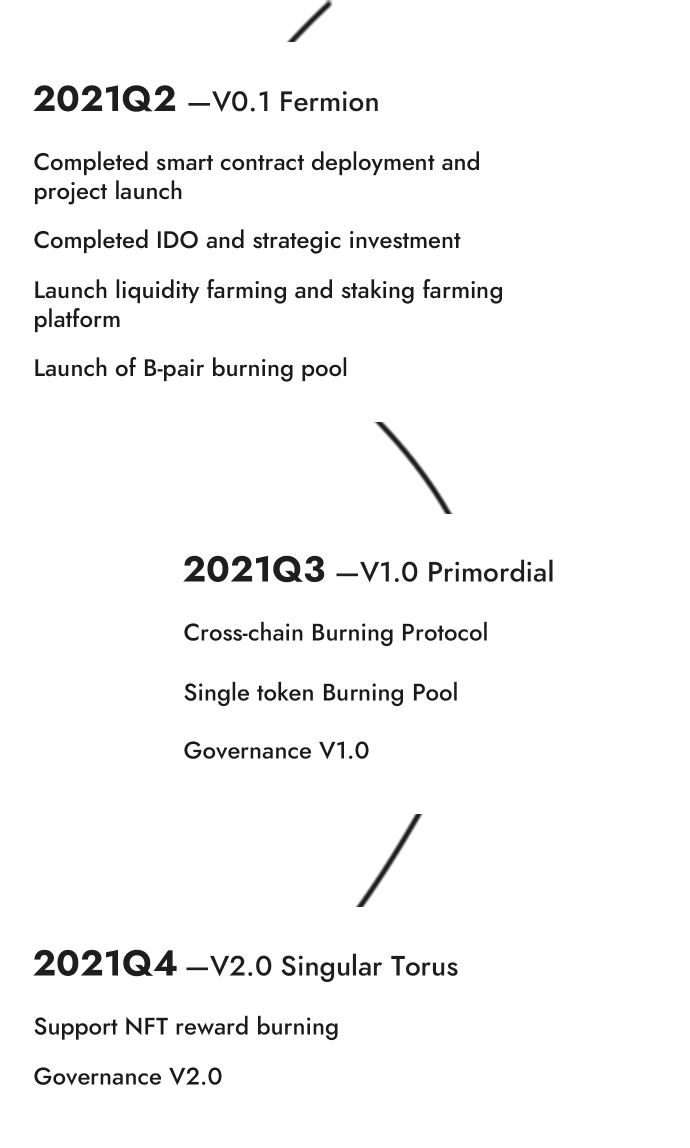
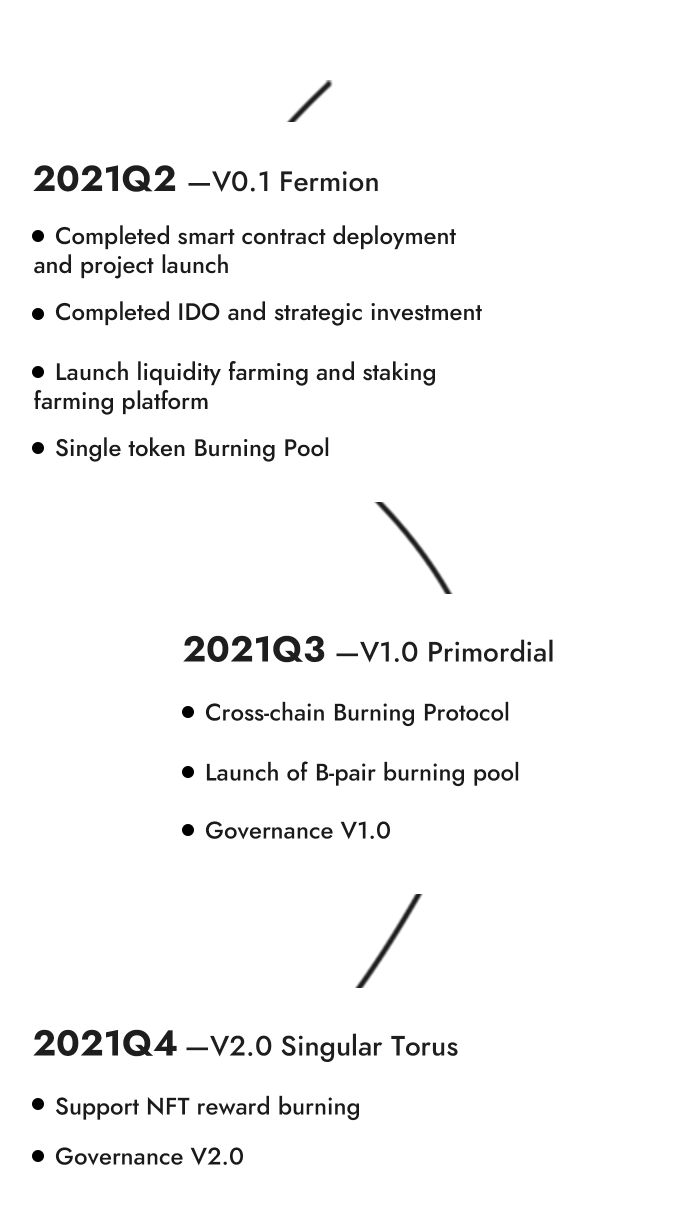
roadmap png

diff --git a/src/views/pages/home/index.jsx b/src/views/pages/home/index.jsx
@@ -87,15 +87,27 @@ const Home = (props) => {
                     <FormattedMessage id='home_text_4_2' />
                   </h4>
                   <p className='roadmap_card_text'>
+                    {locale !== 'zh' && (
+                      <span className='roadmap_card_symbol'></span>
+                    )}
                     <FormattedMessage id='home_text_5' />
                   </p>
                   <p className='roadmap_card_text'>
+                    {locale !== 'zh' && (
+                      <span className='roadmap_card_symbol'></span>
+                    )}
                     <FormattedMessage id='home_text_6' />
                   </p>
                   <p className='roadmap_card_text'>
+                    {locale !== 'zh' && (
+                      <span className='roadmap_card_symbol'></span>
+                    )}
                     <FormattedMessage id='home_text_7' />
                   </p>
                   <p className='roadmap_card_text'>
+                    {locale !== 'zh' && (
+                      <span className='roadmap_card_symbol'></span>
+                    )}
                     <FormattedMessage id='home_text_8' />
                   </p>
                 </div>
@@ -107,12 +119,21 @@ const Home = (props) => {
                     <FormattedMessage id='home_text_9_2' />
                   </h4>
                   <p className='roadmap_card_text'>
+                    {locale !== 'zh' && (
+                      <span className='roadmap_card_symbol'></span>
+                    )}
                     <FormattedMessage id='home_text_10' />
                   </p>
                   <p className='roadmap_card_text'>
+                    {locale !== 'zh' && (
+                      <span className='roadmap_card_symbol'></span>
+                    )}
                     <FormattedMessage id='home_text_11' />
                   </p>
                   <p className='roadmap_card_text'>
+                    {locale !== 'zh' && (
+                      <span className='roadmap_card_symbol'></span>
+                    )}
                     <FormattedMessage id='home_text_12' />
                   </p>
                 </div>
@@ -124,14 +145,22 @@ const Home = (props) => {
                     <FormattedMessage id='home_text_13_2' />
                   </h4>
                   <p className='roadmap_card_text'>
+                    {locale !== 'zh' && (
+                      <span className='roadmap_card_symbol'></span>
+                    )}
                     <FormattedMessage id='home_text_14' />
                   </p>
                   <p className='roadmap_card_text'>
+                    {locale !== 'zh' && (
+                      <span className='roadmap_card_symbol'></span>
+                    )}
                     <FormattedMessage id='home_text_14_2' />
                   </p>
                 </div>
               </div>
-              <a className='roadmap_png'></a>
+              <a
+                className={`roadmap_png ${locale === 'zh' && 'roadmap_png_zh'}`}
+              ></a>
             </div>
           </div>
         </div>

diff --git a/src/views/pages/home/index.less b/src/views/pages/home/index.less
@@ -64,6 +64,9 @@
     .roadmap_png {
       display: none;
     }
+    .roadmap_png_zh {
+      display: none;
+    }
     .roadmap_timeline {
       position: relative;
       margin: 76px auto 36px;
@@ -120,6 +123,15 @@
           font-size: 22px;
           line-height: 32px;
           color: #1a1a1a;
+          .roadmap_card_symbol {
+            display: inline-block;
+            margin-right: 8px;
+            width: 8px;
+            height: 8px;
+            border-radius: 50%;
+            background-color: #000;
+            vertical-align: middle;
+          }
           &:first-child {
             margin-top: 0;
           }
@@ -254,6 +266,9 @@
     .roadmap_png {
       display: none;
     }
+    .roadmap_png_zh {
+      display: none;
+    }
     .roadmap_timeline {
       position: relative;
       margin: 76px auto 36px;
@@ -310,6 +325,15 @@
           font-size: 22px;
           line-height: 32px;
           color: #1a1a1a;
+            .roadmap_card_symbol {
+            display: inline-block;
+            margin-right: 8px;
+            width: 8px;
+            height: 8px;
+            border-radius: 50%;
+            background-color: #000;
+            vertical-align: middle;
+          }
           &:first-child {
             margin-top: 0;
           }
@@ -443,6 +467,10 @@
       background: url('../../../assets/image/roadmap_H5@2x.png') no-repeat;
       background-size: 100% 100%;
     }
+    .roadmap_png_zh {
+      background: url('../../../assets/image/roadmap_H5_zh@2x.png') no-repeat;
+      background-size: 100% 100%;
+    }
     .roadmap_timeline {
       display: none;
     }
@@ -564,6 +592,10 @@
       width: 100%;
       height: 574px;
       background: url('../../../assets/image/roadmap_H5@2x.png') no-repeat;
+      background-size: 100% 100%;
+    }
+    .roadmap_png_zh {
+      background: url('../../../assets/image/roadmap_H5_zh@2x.png') no-repeat;
       background-size: 100% 100%;
     }
     .roadmap_timeline {

diff --git a/src/locale/cn.js b/src/locale/cn.js
@@ -33,7 +33,7 @@ const zh_CN = {
   home_text_13: '2021年Q4',
   home_text_13_2: 'V2.0 Singular Torus（奇异环）',
   home_text_14: '支持NFT奖励燃烧',
-  home_text_14_2: '治理机制',
+  home_text_14_2: '治理机制 V2.0',
   home_text_15: 'IDO',
   home_text_16: '种子轮',
   home_text_17: 'Ratio',
